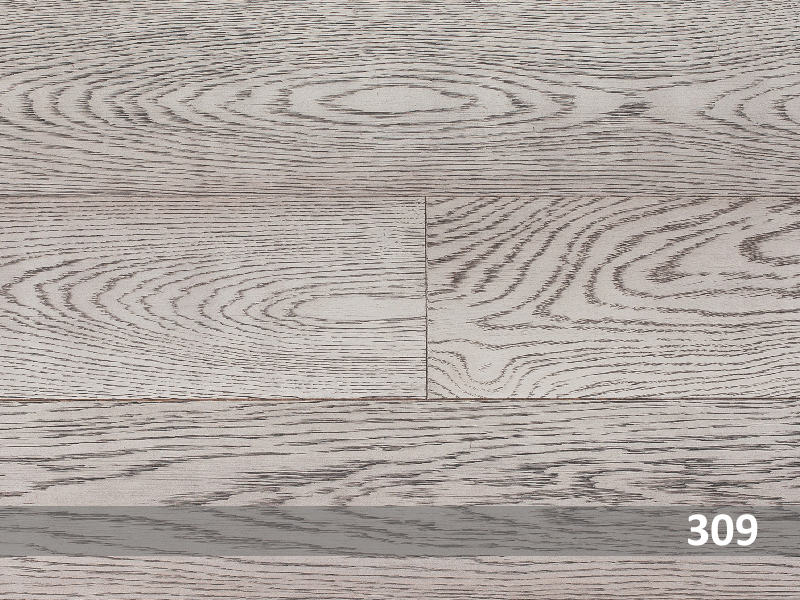
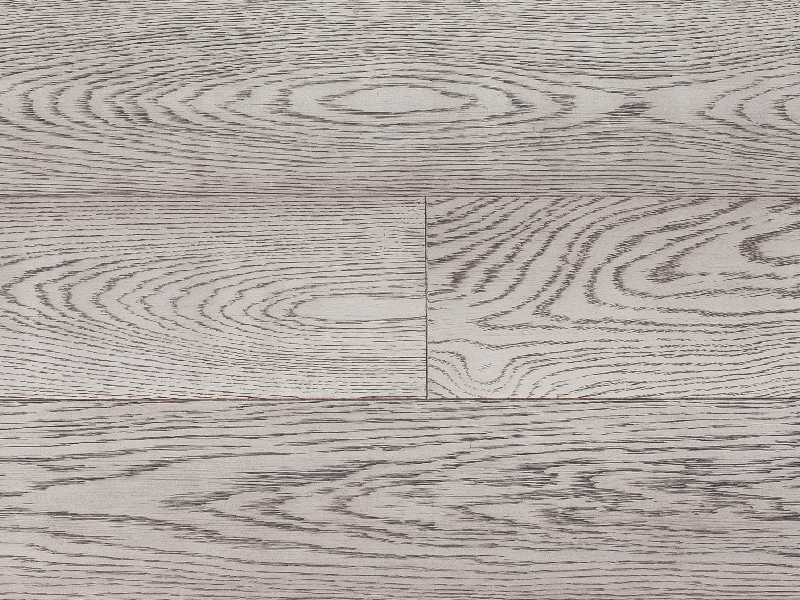
підпис

Changed region(s): [[0.0, 0.84, 1.0, 0.93]]

diff --git a/portfolio/gorbatyuk/colors.html b/portfolio/gorbatyuk/colors.html
@@ -43,8 +43,8 @@
         <div id="openModal21" class="Window">
             <div>
                 <a href="#close" title="Закрыть" class="close">X</a>
-
                 <img src="image/309.png">
+                <h2 class="fotoName">309</h2>
                 <a class="prev" href="#openModal24">prev</a>
                 <a class="next" href="#openModal22">next</a>
             </div>
@@ -58,8 +58,8 @@
         <div id="openModal22" class="Window">
             <div>
                 <a href="#close" title="Закрыть" class="close">X</a>
-                <img src="image/309_1.png">
-
+                <img src="image/309.png">
+                <h2 class="fotoName">309</h2>
                 <a class="prev" href="#openModal21">prev</a>
                 <a class="next" href="#openModal23">next</a>
             </div>
@@ -74,7 +74,8 @@
             <div>
                 <a href="#close" title="Закрыть" class="close">X</a>
 
-                <img src="image/309_2.png">
+                <img src="image/309.png">
+                <h2 class="fotoName">309</h2>
                 <a class="prev" href="#openModal22">prev</a>
                 <a class="next" href="#openModal24">next</a>
             </div>
@@ -88,8 +89,9 @@
         <div id="openModal24" class="Window">
             <div>
                 <a href="#close" title="Закрыть" class="close">X</a>
-                
-                <img src="image/309_3.png">
+
+                <img src="image/309.png">
+                <h2 class="fotoName">309</h2>
                 <a class="prev" href="#openModal23">prev</a>
                 <a class="next" href="#openModal21">next</a>
             </div>

diff --git a/portfolio/gorbatyuk/contact.html b/portfolio/gorbatyuk/contact.html
@@ -58,9 +58,8 @@
 
         </div>
         <div class="flexItem flexMap">
-            <iframe src="https://www.google.com/maps/embed?pb=!1m18!1m12!1m3!1d2539.5300786148614!2d30.456564758862676!3d50.468474789296!2m3!1f0!2f0!3f0!3m2!1i1024!2i768!4f13.1!3m3!1m2!1s0x40d4cdcef8bbcb33%3A0x4d72fdee4a29d4!2z0LLRg9C70LjRhtGPINCh0ZbQvCfRlyDQpdC-0YXQu9C-0LLQuNGFLCAxNSwg0JrQuNGX0LIsIDAyMDAw!5e0!3m2!1suk!2sua!4v1487756604139" width="600" height="300" frameborder="0" style="border:0" allowfullscreen></iframe>
+            <iframe src="https://www.google.com/maps/embed?pb=!1m18!1m12!1m3!1d5078.722744314669!2d30.45261654727545!3d50.47161589412365!2m3!1f0!2f0!3f0!3m2!1i1024!2i768!4f13.1!3m3!1m2!1s0x40d4cdcef8bbcb33%3A0x4d72fdee4a29d4!2z0LLRg9C70LjRhtGPINCh0ZbQvCfRlyDQpdC-0YXQu9C-0LLQuNGFLCAxNSwg0JrQuNGX0LIsIDAyMDAw!5e0!3m2!1suk!2sua!4v1490443406776" width="600" height="300" frameborder="0" style="border:0" allowfullscreen></iframe></div>
         </div>
-    </div>
         <p>Приглашаем к сотрудничеству и предлагаем посетить наш офис.</p>
         <p>Если у Вас возникли вопросы и нет времени приехать, тогда Мы с радостью ответим на все Ваши вопросы по телефону.</p>
     <p>Режим работы:</p>

diff --git a/portfolio/gorbatyuk/style/styleColors.css b/portfolio/gorbatyuk/style/styleColors.css
@@ -166,6 +166,14 @@ section{
         letter-spacing: 0.25em;
 
     }
+    .fotoName{
+        color: #fff;
+        display: inline-block;
+        width: 800px;
+        font-size: 300%;
+        background-color: #7d7f74;
+        
+    }
     .stanColor img{
         transition: 1.5s;
 
